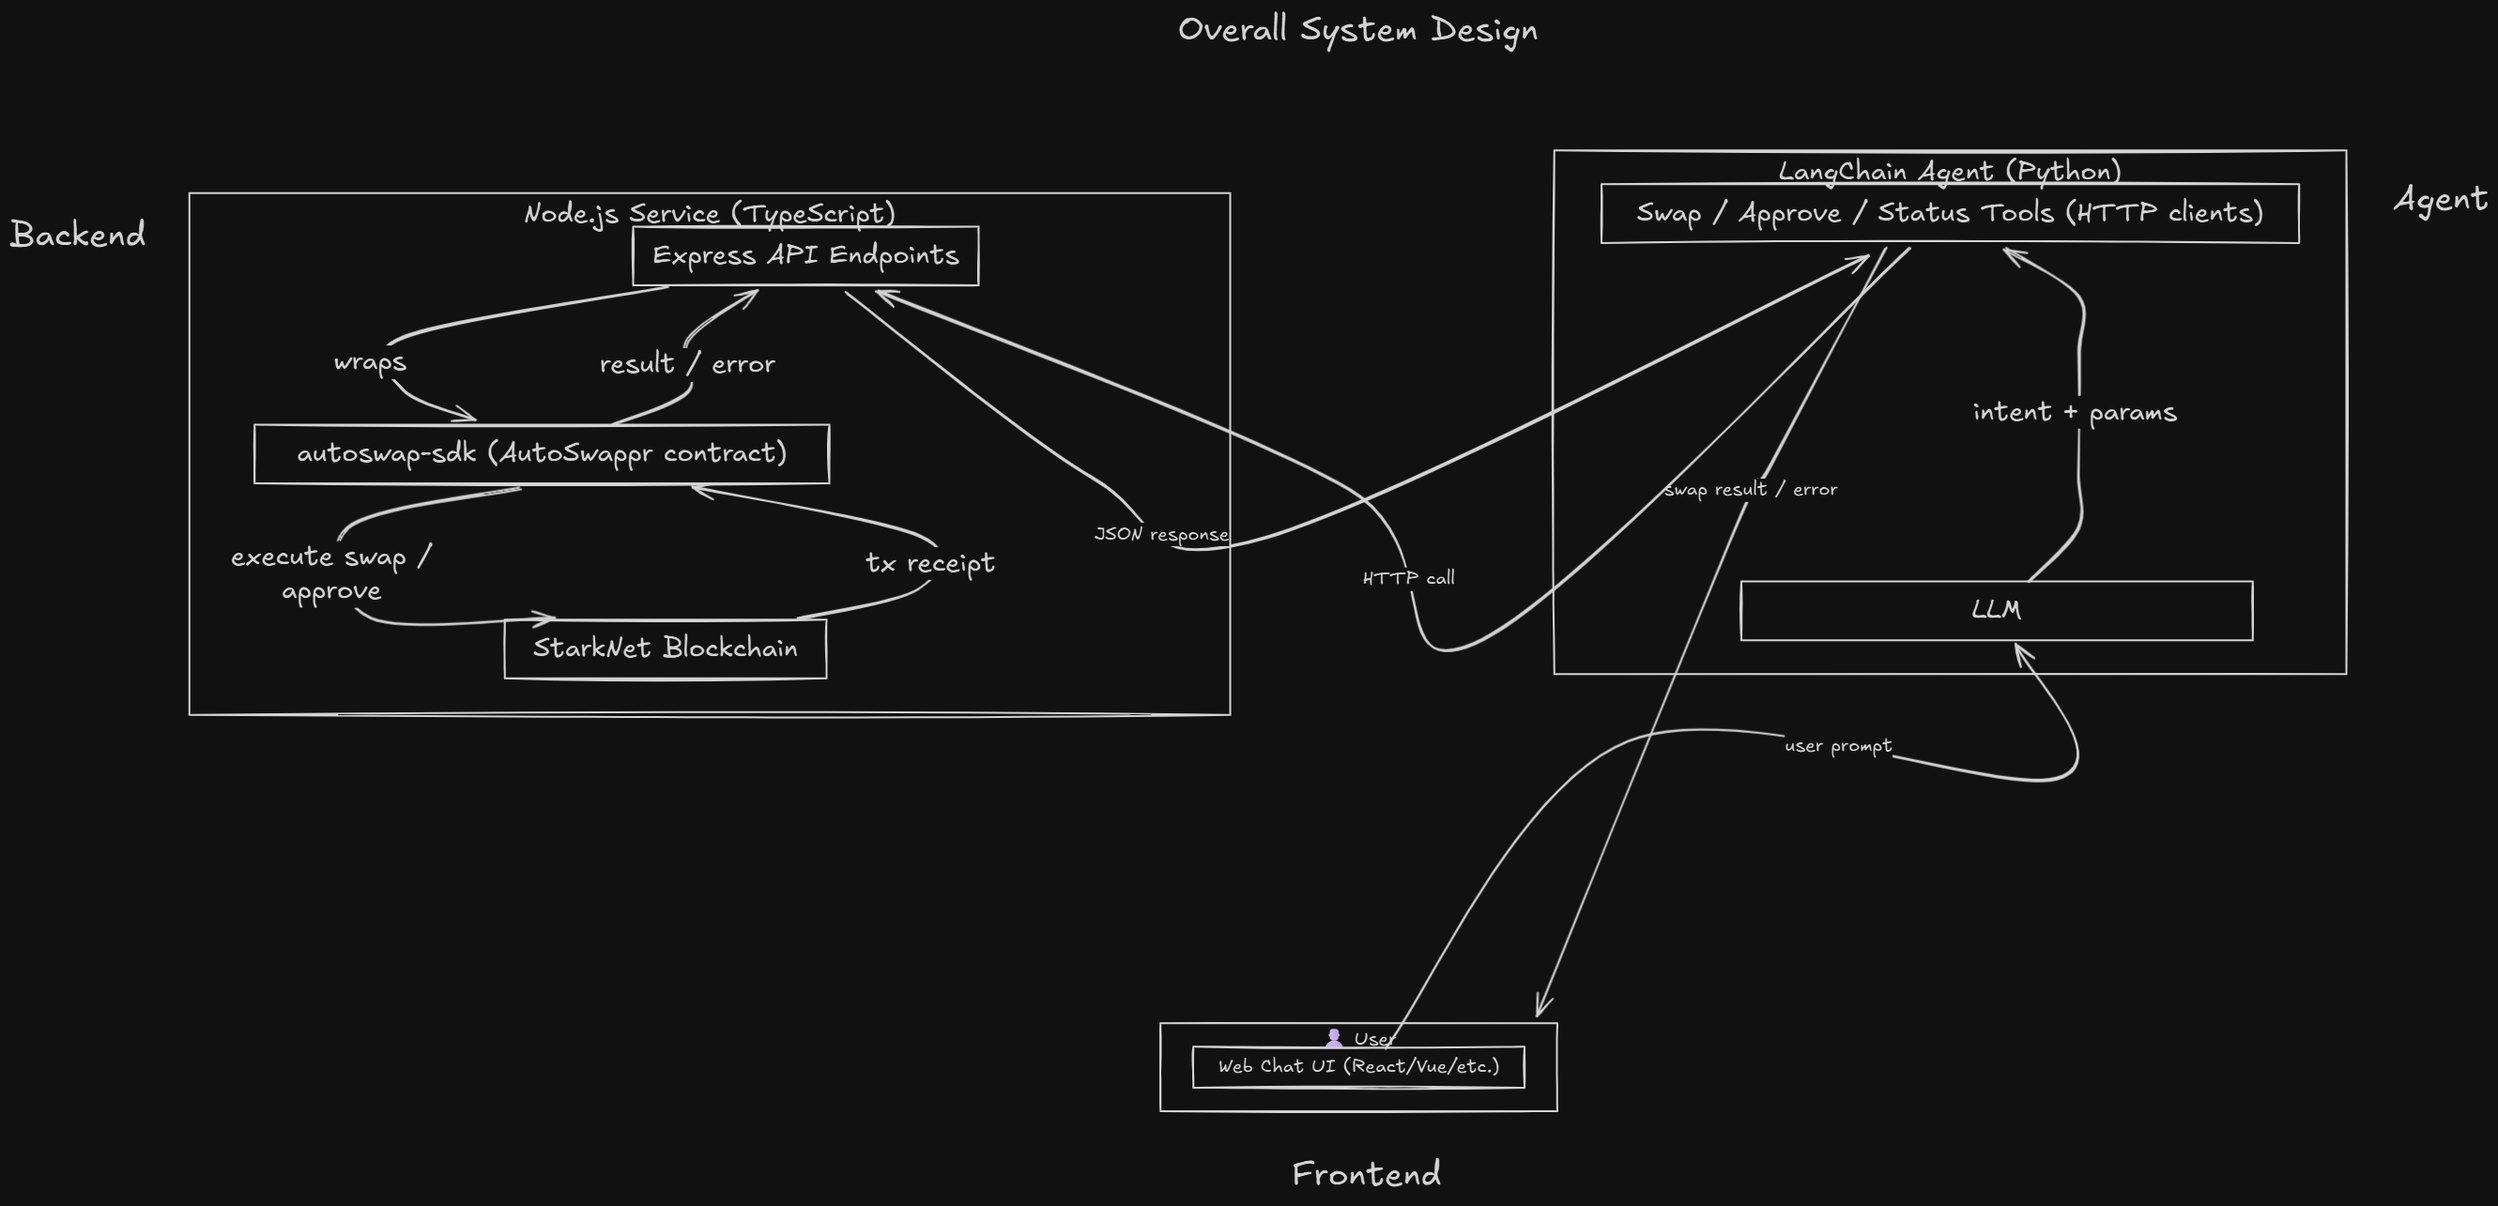
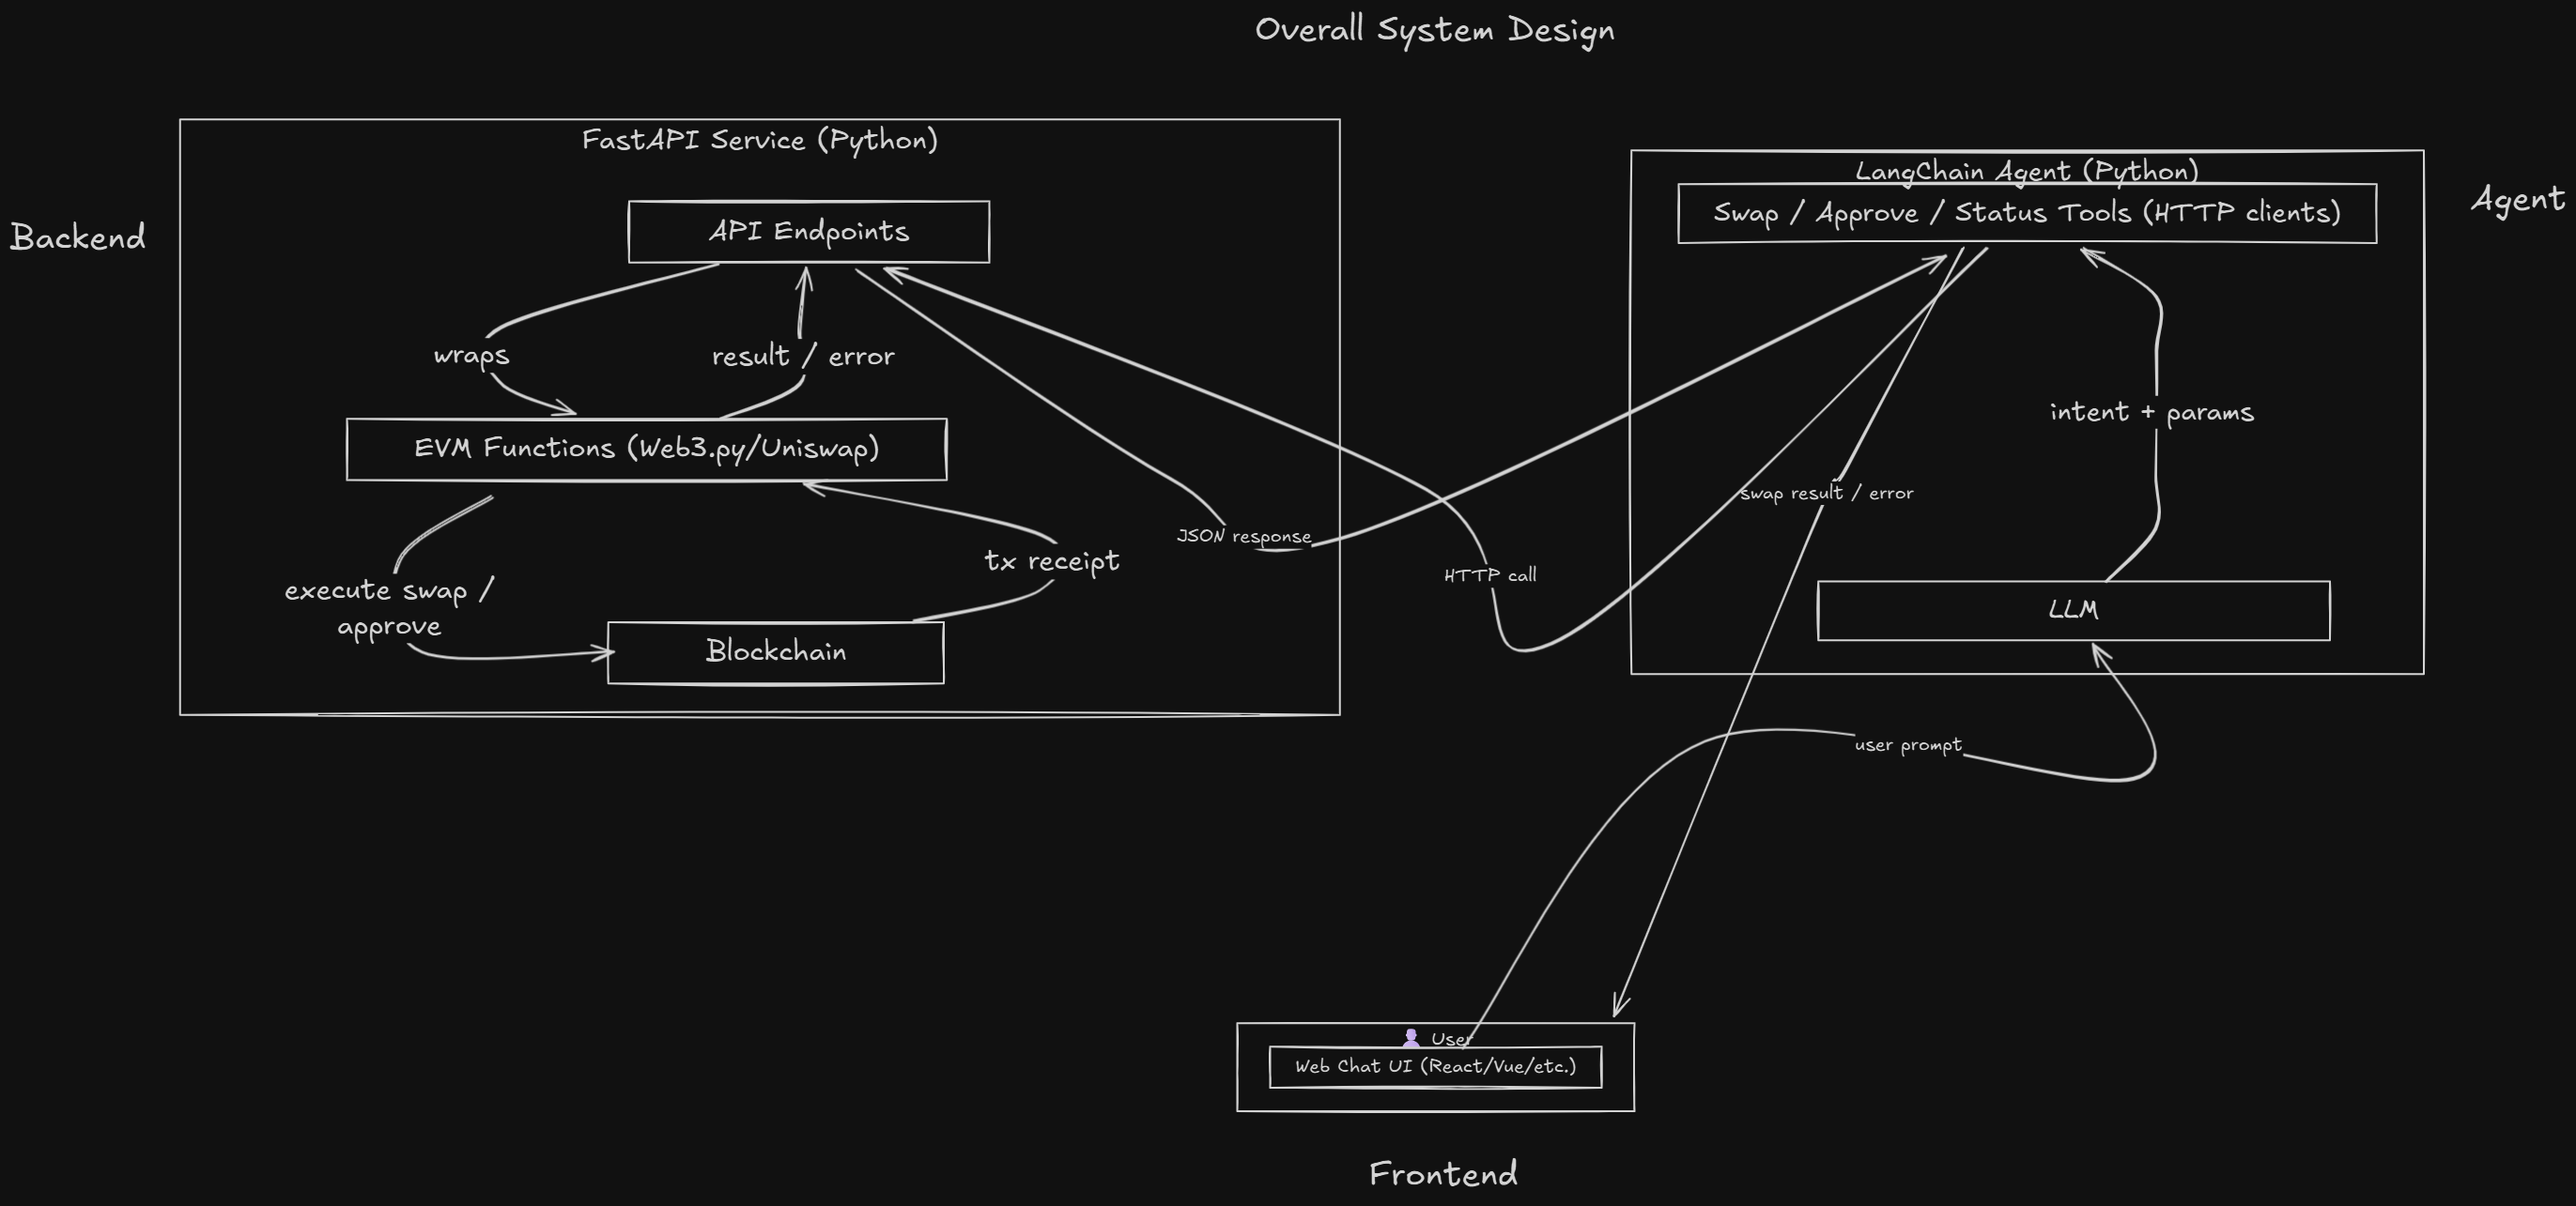
added new sys-architecture diagram to readme

diff --git a/README.md b/README.md
@@ -18,49 +18,29 @@ And the LangChain agent will:
 
 1. Parse the intent & parameters (token, amount, action)
 2. Call the FastAPI backend endpoint (`/swap`)
-3. Backend executes the swap using autoswap-sdk
+3. Backend executes the swap using the EVM functions
 4. User gets a result/transaction receipt in the chat
 
 ## 🏗 Architecture
 
 ![System Architecture Diagram](./sys-archtr.png)
 
-
-
 ## 📂 Repository Structure
 
 ```
 .
-├── backend/              # Node.js + autoswap-sdk wrapper
+├── backend/              # FastAPI backend + EVM function wrapper
 ├── agent/                # Python LangChain agent
 ├── frontend/             # Web chat UI
 ├── README.md             # Project overview
-├── BACKEND_SETUP.md      # Setup guide for Node.js service
-├── AGENT_SETUP.md        # Setup guide for Python agent
-├── FRONTEND_SETUP.md     # Setup guide for frontend UI
-└── WORKFLOW.md           # System integration & data flow
+├── 
 ```
 
 ## ⚡ Quick Start
 
-### 1. Clone the repo
+### Clone the repo
 
 ```bash
-git clone <your-repo-url>
-cd autoswap-agent
+git clone https://github.com/kingksjo/swap-agent.git
+cd swap-agent
 ```
-
-### 2. Set up the backend
-See [BACKEND_SETUP.md](BACKEND_SETUP.md)
-
-### 3. Set up the agent
-See [AGENT_SETUP.md](AGENT_SETUP.md)
-
-### 4. Run the frontend
-See [FRONTEND_SETUP.md](FRONTEND_SETUP.md)
-
-## 📝 Hackathon Notes
-
-- Docker is not required for initial setup (local only)
-- Focus is on MVP integration: user prompt → agent → backend → blockchain → response
-- Stretch goals: add wallet integrations, persist conversation state, deploy via Docker
